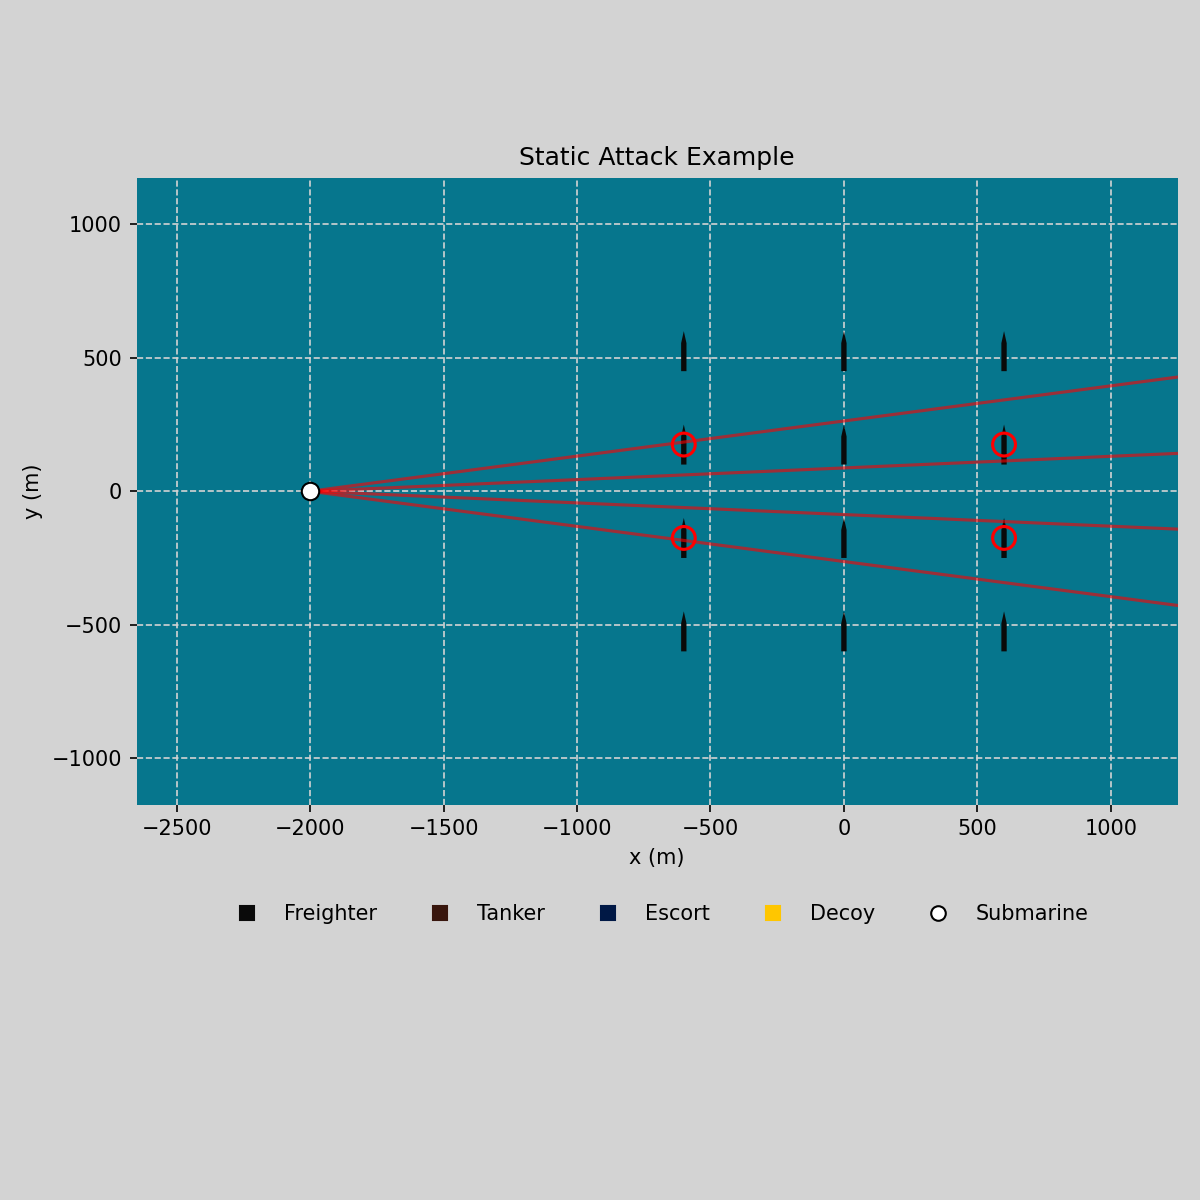
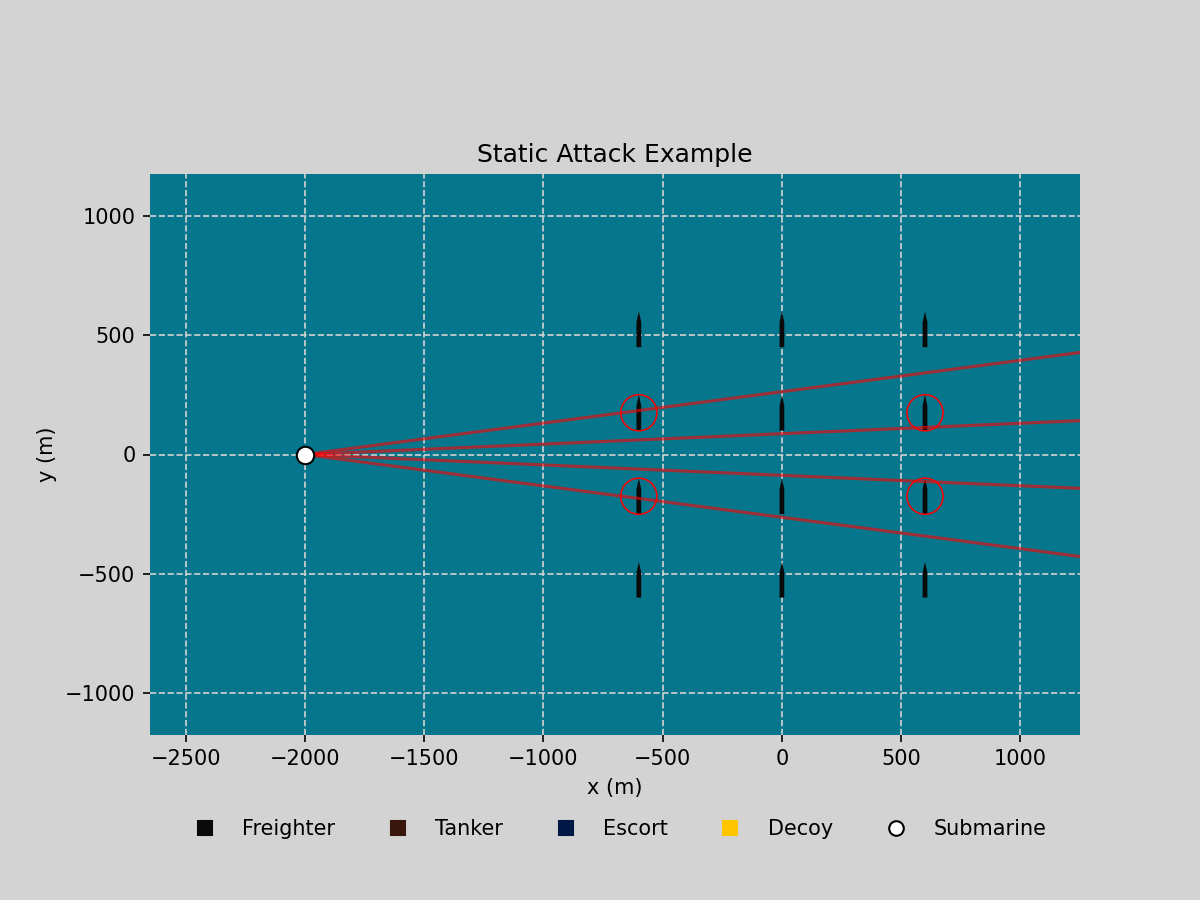
Fixing Visuals (#6)

diff --git a/convoy_sim/viz_attack.py b/convoy_sim/viz_attack.py
@@ -167,10 +167,11 @@ def plot_attack_planview(
             ax.scatter(
                 ship.position[0],
                 ship.position[1],
-                s=120.0,
+                s=300,
                 facecolors="none",
                 edgecolors="red",
-                linewidths=1.5,
+                linewidths=0.75,
+                zorder=5,
             )
 
     if show_miss_annotations and torpedoes:
@@ -205,7 +206,8 @@ def render_attack_frame(
     trail_color: str = "gray",
     legend_bbox_to_anchor: tuple[float, float] | None = None,
     view_bounds: tuple[float, float, float, float] | None = None,
-    hide_spines: bool = False,
+    hide_spines: bool = True,
+    hit_cache: set[str] | None = None,
 ) -> Any:
     """Render a single time frame of a static/dynamic attack."""
 
@@ -234,7 +236,7 @@ def render_attack_frame(
     ax = plot_convoy_planview(
         ships,
         ax=ax,
-        title=f"t={t_global:.1f}s",
+        title=f"Convoy Attack Visual \nt={t_global:.1f}s",
         color_by=color_by,
         show_footprint=show_footprint,
         ship_marker=ship_marker,
@@ -268,26 +270,7 @@ def render_attack_frame(
             alpha=0.7,
         )
 
-    for ship in ships:
-        for torpedo in torpedoes:
-            if t_global < torpedo.launch_delay:
-                continue
-            d_min = min_miss_distance_ship_torpedo(
-                ship,
-                torpedo,
-                max(0.0, t_global - torpedo.launch_delay),
-            )
-            if d_min <= ship.effective_hit_radius():
-                ax.scatter(
-                    ship.position[0],
-                    ship.position[1],
-                    s=120.0,
-                    facecolors="none",
-                    edgecolors="red",
-                    linewidths=1.5,
-                )
-                break
-
+    hit_ids = hit_cache if hit_cache is not None else set()
     if view_bounds is not None:
         xmin, xmax, ymin, ymax = view_bounds
         ax.set_xlim(float(xmin), float(xmax))
@@ -323,6 +306,7 @@ def save_attack_frames(
     dt = 1.0 / float(fps)
     times = np.arange(float(t_start), float(t_end) + 1e-9, dt)
     paths: list[str] = []
+    hit_cache: set[str] = set()
     for idx, t in enumerate(times):
         fig, ax = plt.subplots(figsize=(6, 6))
         render_attack_frame(
@@ -332,6 +316,7 @@ def save_attack_frames(
             t_max=float(t_end),
             dynamics=dynamics,
             ax=ax,
+            hit_cache=hit_cache,
             **kwargs,
         )
         fig.tight_layout()
@@ -367,6 +352,7 @@ def save_attack_animation_mp4(
     dt = 1.0 / float(fps)
     times = np.arange(float(t_start), float(t_end) + 1e-9, dt)
     fig, ax = plt.subplots(figsize=(6, 6))
+    hit_cache: set[str] = set()
 
     def _update(frame_idx: int):
         ax.clear()
@@ -378,6 +364,7 @@ def save_attack_animation_mp4(
             t_max=float(t_end),
             dynamics=dynamics,
             ax=ax,
+            hit_cache=hit_cache,
             **kwargs,
         )
         return ax
@@ -395,3 +382,24 @@ def save_attack_debug_json(path: str, metrics: dict[str, Any]) -> str:
     with open(path, "w", encoding="utf-8") as handle:
         json.dump(metrics, handle, indent=2)
     return path
+    hit_ids = hit_cache if hit_cache is not None else set()
+    for ship in ships:
+        for torpedo in torpedoes:
+            if t_global < torpedo.launch_delay:
+                continue
+            torp_pos = torpedo.position_at(float(t_global))
+            if distance(ship.position, torp_pos) <= ship.effective_hit_radius():
+                hit_ids.add(ship.id)
+                break
+
+    for ship in ships:
+        if ship.id in hit_ids:
+            ax.scatter(
+                ship.position[0],
+                ship.position[1],
+                s=120.0,
+                facecolors="none",
+                edgecolors="red",
+                linewidths=1.5,
+                zorder=5,
+            )

diff --git a/convoy_sim/viz.py b/convoy_sim/viz.py
@@ -237,6 +237,8 @@ def plot_convoy_planview(
     ship_marker: Literal["circle", "ship"] = "circle",
     rotate_by_heading: bool = False,
     use_hull_dimensions: bool = False,
+    highlight_ids: set[str] | None = None,
+    highlight_color: str = "red",
 ) -> Any:
     """Plot convoy ship centers in plan view."""
 
@@ -260,6 +262,11 @@ def plot_convoy_planview(
         mappable.set_array(np.asarray(colors, dtype=float))
     else:
         colors = [ship_color(ship, color_by=color_by) for ship in ships]
+        if highlight_ids:
+            colors = [
+                (highlight_color if ship.id in highlight_ids else color)
+                for ship, color in zip(ships, colors)
+            ]
 
     if ship_marker == "ship":
         if color_by == "value":
@@ -284,6 +291,20 @@ def plot_convoy_planview(
                 rotate_by_heading=rotate_by_heading,
                 use_hull_dimensions=use_hull_dimensions,
             )
+        if highlight_ids and color_by == "value":
+            highlight_ships = [ship for ship in ships if ship.id in highlight_ids]
+            if highlight_ships:
+                highlight_colors = [highlight_color] * len(highlight_ships)
+                overlay = _add_ship_polygons(
+                    ax,
+                    highlight_ships,
+                    highlight_colors,
+                    alpha=1.0,
+                    ship_marker_size=ship_marker_size,
+                    rotate_by_heading=rotate_by_heading,
+                    use_hull_dimensions=use_hull_dimensions,
+                )
+                overlay.set_zorder(4)
         if len(positions):
             if use_hull_dimensions:
                 max_length = max(float(ship.length) for ship in ships)
@@ -304,6 +325,20 @@ def plot_convoy_planview(
                 s=float(ship_marker_size),
                 alpha=float(alpha),
             )
+            if highlight_ids:
+                highlight_positions = np.array(
+                    [ship.position for ship in ships if ship.id in highlight_ids],
+                    dtype=float,
+                )
+                if len(highlight_positions):
+                    ax.scatter(
+                        highlight_positions[:, 0],
+                        highlight_positions[:, 1],
+                        c=highlight_color,
+                        s=float(ship_marker_size),
+                        alpha=1.0,
+                        zorder=4,
+                    )
         else:
             scatter = ax.scatter(
                 positions[:, 0],

diff --git a/experiments/plot_attack_once.py b/experiments/plot_attack_once.py
@@ -19,12 +19,12 @@ def main() -> None:
     scenario = build_scenario_a(n_trials=1, rng_seed=0)
     ships = scenario.layout_fn(**scenario.layout_kwargs)
     torpedoes = fan_spread(
-        u_pos=np.array([-2000.0, 0.0]),
-        base_bearing_rad=0.0,
-        n=4,
-        spread_rad=np.radians(15.0),
-        speed=25.0,
-        max_run_time=800.0,
+        u_pos=np.array([-2000.0, 0.0]), #Submarine position
+        base_bearing_rad=0.0, #Launch direction (radians)
+        n=4, #Number of torpedos
+        spread_rad=np.radians(15.0), #Torpedo Spread
+        speed=25.0, #Torpedo Speed
+        max_run_time=800.0, #Torpedo distance (TODO add units)
     )
     t_max = float(scenario.t_max)
 
@@ -33,7 +33,7 @@ def main() -> None:
     fig_dir.mkdir(parents=True, exist_ok=True)
     debug_dir.mkdir(parents=True, exist_ok=True)
 
-    fig, ax = plt.subplots(figsize=(8, 8), facecolor="lightgrey")
+    fig, ax = plt.subplots(figsize=(8, 6), facecolor="lightgrey")
     ax = plot_attack_planview(
         ships,
         torpedoes,
@@ -141,8 +141,9 @@ def main() -> None:
         pad = max(200.0, (xmax - xmin) * 0.25, (ymax - ymin) * 0.25)
         ax.set_xlim(xmin - pad, xmax + pad)
         ax.set_ylim(ymin - pad, ymax + pad)
-    fig.tight_layout(rect=(0.0, 0.08, 1.0, 0.92))
-    fig.subplots_adjust(bottom=0.28)
+    ax.set_anchor("C")
+    # fig.tight_layout()
+    # fig.subplots_adjust(left=0.18, right=0.95, bottom=0.28, top=0.92)
     fig_path = fig_dir / "attack_once.png"
     fig.savefig(fig_path, dpi=150)
 

diff --git a/experiments/render_attack_animation.py b/experiments/render_attack_animation.py
@@ -45,15 +45,15 @@ def main() -> None:
     kin = ConvoyKinematics(route=route, zigzag=zigzag)
 
     torpedoes = fan_spread(
-        u_pos=as_vec(-1500.0, 0.0),
-        base_bearing_rad=0.0,
-        n=3,
-        spread_rad=np.radians(10.0),
-        speed=20.0,
-        max_run_time=200.0,
+        u_pos=as_vec(1500.0, 0.0), # Submarine Position 
+        base_bearing_rad=np.radians(180), # Launch Radian 0.0 = due east np.radians(180) = due west
+        n=5, #Number of torpedos
+        spread_rad=np.radians(10.0), #Torpedo Spread (ex 10 at launch degree goes -5, 0, 5)
+        speed=20.0, # Torpedo Speed
+        max_run_time=200.0, 
     )
     for idx, torpedo in enumerate(torpedoes):
-        torpedo.launch_delay = float(idx * 10.0)
+        torpedo.launch_delay = float(idx * 10.0) # Torpedo Lauch Delay
 
     out_dir = Path("results/frames/demo_attack")
     out_dir.mkdir(parents=True, exist_ok=True)

diff --git a/NOTES.md b/NOTES.md
@@ -22,7 +22,9 @@ Fixes:
 -Make torpedo lines red instead of grey
 
 
-
+Update Static Example to:
+- Make ships red instead of circles when hit
+-Center the plot right, now it is pushed right due to axis labels
 
 
 
